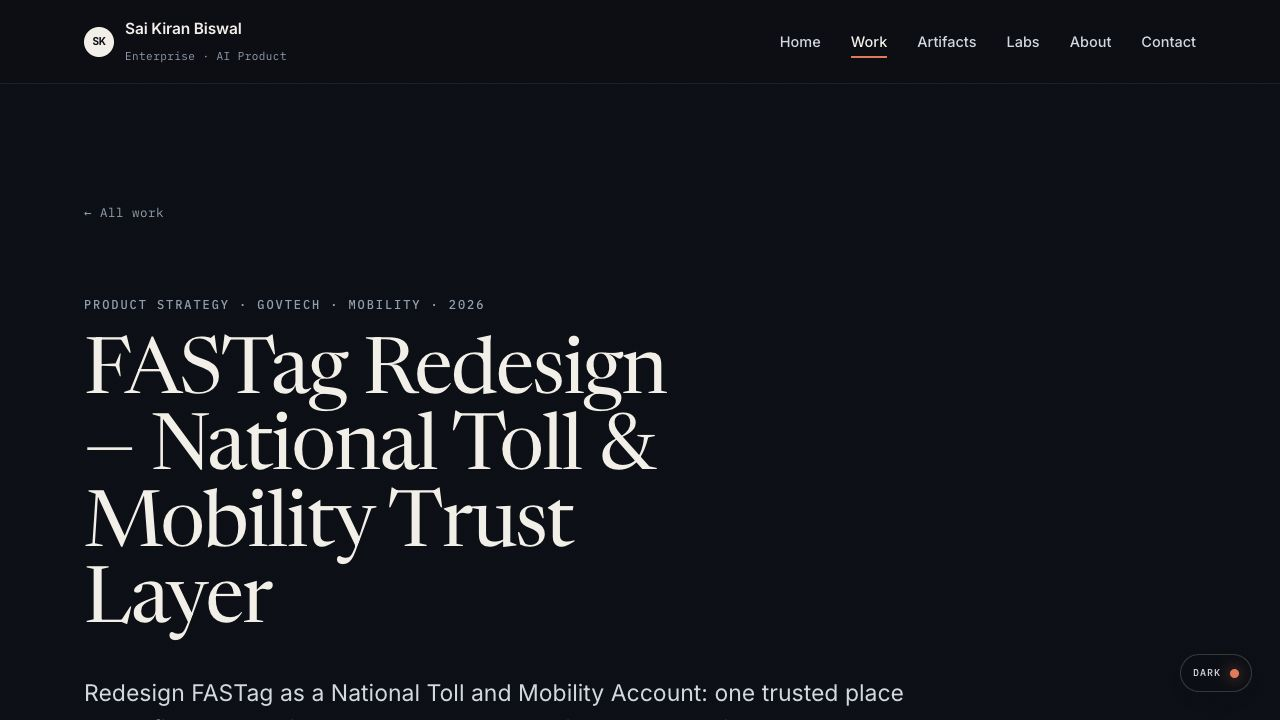
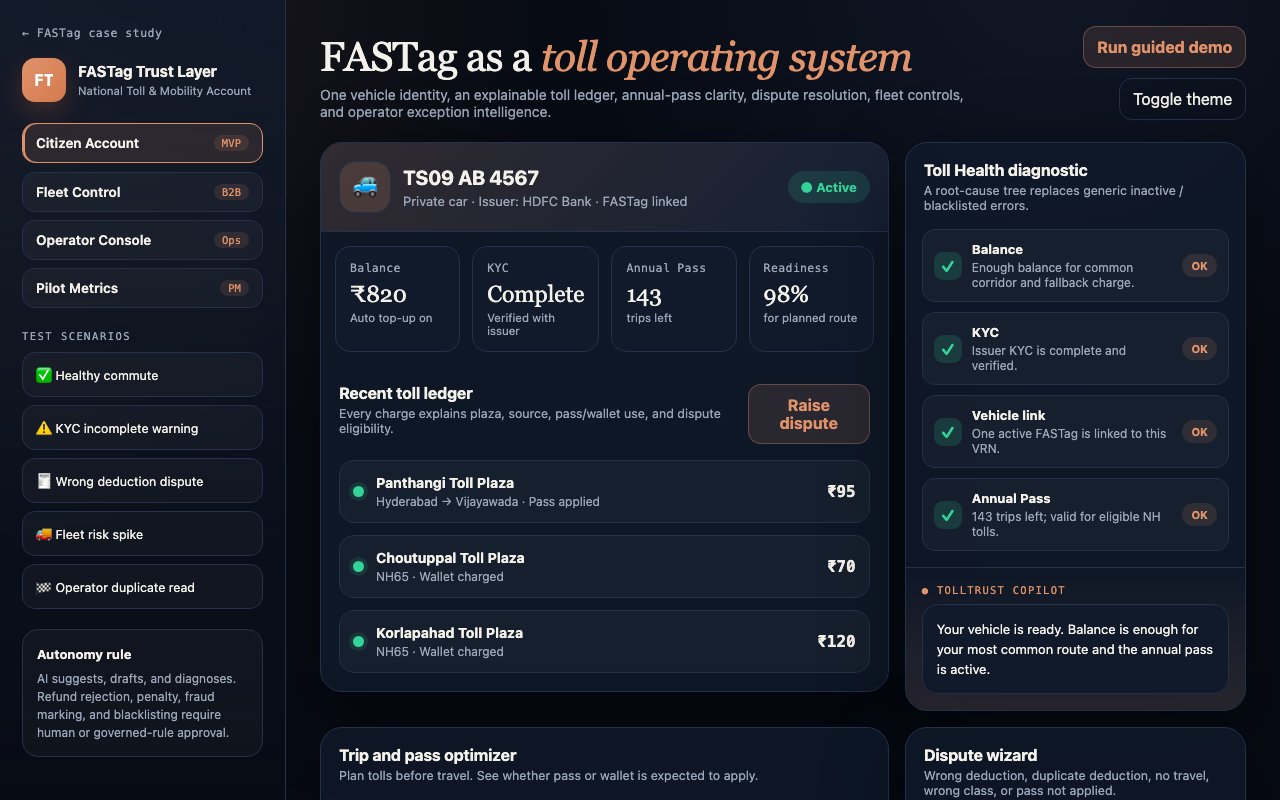
Remove Playground from nav; make FASTag an interactive case study
- Drop the 'Playground' (labs) item from the nav across all pages,
  site-config.js SEED, and site.json (labs.html file kept, just unlinked).
- FASTag case study is now interactive-first: removed the downloadable
  artifacts section and the Strategy+PRD download CTA; the embedded working
  prototype is the centerpiece. Footer links to the prototype.
- Regenerated the FASTag product screenshot from the actual prototype
  (desktop navy+clay layout) replacing the bland hero-text capture.

diff --git a/case-studies/fastag.html b/case-studies/fastag.html
@@ -16,13 +16,6 @@
 <script>document.documentElement.dataset.theme=(function(){try{return localStorage.getItem('portfolio.theme')||'dark'}catch(e){return'dark'}})();</script>
 <link rel="stylesheet" href="../css/styles.css?v=17">
 <link rel="stylesheet" href="../css/fastag.css?v=1">
-<style>
-  .ft-artifact { display:flex; flex-direction:column; gap:8px; padding:18px; border:1px solid var(--line,#d8d0c1); border-radius:12px; background:var(--card,#faf8f3); color:inherit; transition:transform .2s, border-color .2s, box-shadow .2s; }
-  .ft-artifact:hover { transform:translateY(-2px); border-color:var(--clay,#b85c38); box-shadow:0 12px 30px rgba(0,0,0,.08); }
-  .ft-artifact h3 { font-size:16px; margin:0; letter-spacing:-.01em; }
-  .ft-artifact p { margin:0; font-size:13px; color:var(--muted,#6f675b); line-height:1.5; }
-  .ft-artifact .eyebrow { color:var(--clay-deep,#a34e2d); }
-</style>
 </head>
 <body>
 <nav class="nav">
@@ -31,7 +24,7 @@
     <input class="nav-cb" type="checkbox" id="navToggle" aria-hidden="true" tabindex="-1">
     <label class="nav-burger" for="navToggle" aria-label="Toggle navigation menu"><span></span></label>
     <div class="nav-links">
-      <a href="../index.html">Home</a><a href="../products.html" class="active">Work</a><a href="../labs.html">Playground</a><a href="../artifacts.html">Artifacts</a><a href="../about.html">About</a><a href="../contact.html">Contact</a>
+      <a href="../index.html">Home</a><a href="../products.html" class="active">Work</a><a href="../artifacts.html">Artifacts</a><a href="../about.html">About</a><a href="../contact.html">Contact</a>
     </div>
   </div>
 </nav>
@@ -45,7 +38,6 @@
     <div class="ft-actions">
       <a class="btn" href="../apps/fastag/index.html" target="_blank" rel="noopener">Launch the prototype <span class="arrow">↗</span></a>
       <a class="btn btn-ghost" href="#prototype">See it in action <span class="arrow">↓</span></a>
-      <a class="btn btn-ghost" href="../assets/artifacts/files/fastag-redesign-strategy-prd.docx" download>Strategy + PRD <span class="arrow">↓</span></a>
     </div>
     <dl class="ft-meta">
       <div><dt>Role</dt><dd>Product Manager · Strategy &amp; PRD</dd></div>
@@ -120,24 +112,9 @@
       </div>
     </div>
   </section>
-
-  <section class="ft-section wrap" id="artifacts">
-    <div class="ft-section-label"><span>06</span><p class="eyebrow">The evidence</p></div>
-    <div class="ft-section-body">
-      <h2 class="display">Every claim has a source document.</h2>
-      <p style="max-width:62ch;color:var(--muted)">The full PM artifact pack behind the redesign, from framing and discovery through strategy, UX, AI, roadmap, and the decision memo.</p>
-      <div class="ft-bet-grid" style="margin-top:22px">
-        <a class="ft-artifact" href="../assets/artifacts/files/fastag-redesign-strategy-prd.docx" download><span class="eyebrow">DOCX · Strategy</span><h3>Strategy + PRD</h3><p>Problem framing, JTBD, where-to-play / how-to-win, MVP scope, user stories, risks.</p></a>
-        <a class="ft-artifact" href="../assets/artifacts/files/fastag-redesign-ux-ai-blueprint.docx" download><span class="eyebrow">DOCX · UX + AI</span><h3>UX + AI Agent Blueprint</h3><p>Experience architecture, happy and unhappy paths, and the agent autonomy boundary.</p></a>
-        <a class="ft-artifact" href="../assets/artifacts/files/fastag-redesign-roadmap-metrics-backlog.xlsx" download><span class="eyebrow">XLSX · Delivery</span><h3>Roadmap, Metrics + Backlog</h3><p>Now / Next / Later, North Star with guardrails, RICE backlog, risks, experiments.</p></a>
-        <a class="ft-artifact" href="../assets/artifacts/files/fastag-redesign-discovery-experiment-plan.docx" download><span class="eyebrow">DOCX · Discovery</span><h3>Discovery + Experiment Plan</h3><p>Research sample, interview guide, cheapest tests, go rules, pilot scorecard.</p></a>
-        <a class="ft-artifact" href="../assets/artifacts/files/fastag-redesign-decision-memo.docx" download><span class="eyebrow">DOCX · Decision</span><h3>Decision Memo</h3><p>BLUF recommendation, options, stakeholder map, kill criteria, 30/60/90 plan.</p></a>
-      </div>
-    </div>
-  </section>
 </main>
 
-<footer class="ft-footer"><div class="wrap"><p class="display">The deliverable is a strategy, PRD, and working prototype, not a claim of a shipped national platform.</p><a href="../artifacts.html#fastag">See all FASTag artifacts →</a></div></footer>
+<footer class="ft-footer"><div class="wrap"><p class="display">An interactive case study, framing FASTag as a trusted toll operating system, taken from problem to working prototype.</p><a href="../apps/fastag/index.html" target="_blank" rel="noopener">Open the interactive prototype →</a></div></footer>
 <script src="../js/theme.js?v=1"></script>
 </body>
 </html>

diff --git a/products.html b/products.html
@@ -34,7 +34,6 @@
     <div class="nav-links">
       <a href="index.html">Home</a>
       <a href="products.html" class="active">Work</a>
-      <a href="labs.html">Playground</a>
       <a href="artifacts.html">Artifacts</a>
       <a href="about.html">About</a>
       <a href="contact.html">Contact</a>
@@ -97,7 +96,7 @@
   <div class="wrap">
     <div class="footer-grid">
       <div><p class="big">Building products from <em>problem</em> to <em>platform.</em></p></div>
-      <div class="footer-col"><h4>Navigate</h4><a href="index.html">Home</a><a href="products.html">Work</a><a href="labs.html">Playground</a><a href="artifacts.html">Artifacts</a><a href="about.html">About</a><a href="contact.html">Contact</a></div>
+      <div class="footer-col"><h4>Navigate</h4><a href="index.html">Home</a><a href="products.html">Work</a><a href="artifacts.html">Artifacts</a><a href="about.html">About</a><a href="contact.html">Contact</a></div>
       <div class="footer-col"><h4>Case Studies</h4>
         <a href="case-studies/collections-cloud.html">AI Collections Cloud</a>
         <a href="case-studies/lending-os.html">LOS, Loan Origination</a>

diff --git a/js/site-config.js b/js/site-config.js
@@ -12,7 +12,6 @@ window.SCFG = (function () {
     nav: [
       { label: "Home",    href: "index.html" },
       { label: "Work",    href: "products.html" },
-      { label: "Playground", href: "labs.html" },
       { label: "Artifacts", href: "artifacts.html" },
       { label: "About",   href: "about.html" },
       { label: "Contact", href: "contact.html" }
@@ -27,7 +26,6 @@ window.SCFG = (function () {
           links: [
             { label: "Home",    href: "index.html" },
             { label: "Work",    href: "products.html" },
-            { label: "Playground", href: "labs.html" },
             { label: "Artifacts", href: "artifacts.html" },
             { label: "About",   href: "about.html" },
             { label: "Contact", href: "contact.html" }

diff --git a/artifacts.html b/artifacts.html
@@ -33,7 +33,6 @@
     <div class="nav-links">
       <a href="index.html">Home</a>
       <a href="products.html">Work</a>
-      <a href="labs.html">Playground</a>
       <a href="artifacts.html" class="active">Artifacts</a>
       <a href="about.html">About</a>
       <a href="contact.html">Contact</a>

diff --git a/index.html b/index.html
@@ -44,7 +44,6 @@
     <div class="nav-links">
       <a href="index.html" class="active">Home</a>
       <a href="products.html">Work</a>
-      <a href="labs.html">Playground</a>
       <a href="artifacts.html">Artifacts</a>
       <a href="about.html">About</a>
       <a href="contact.html">Contact</a>
